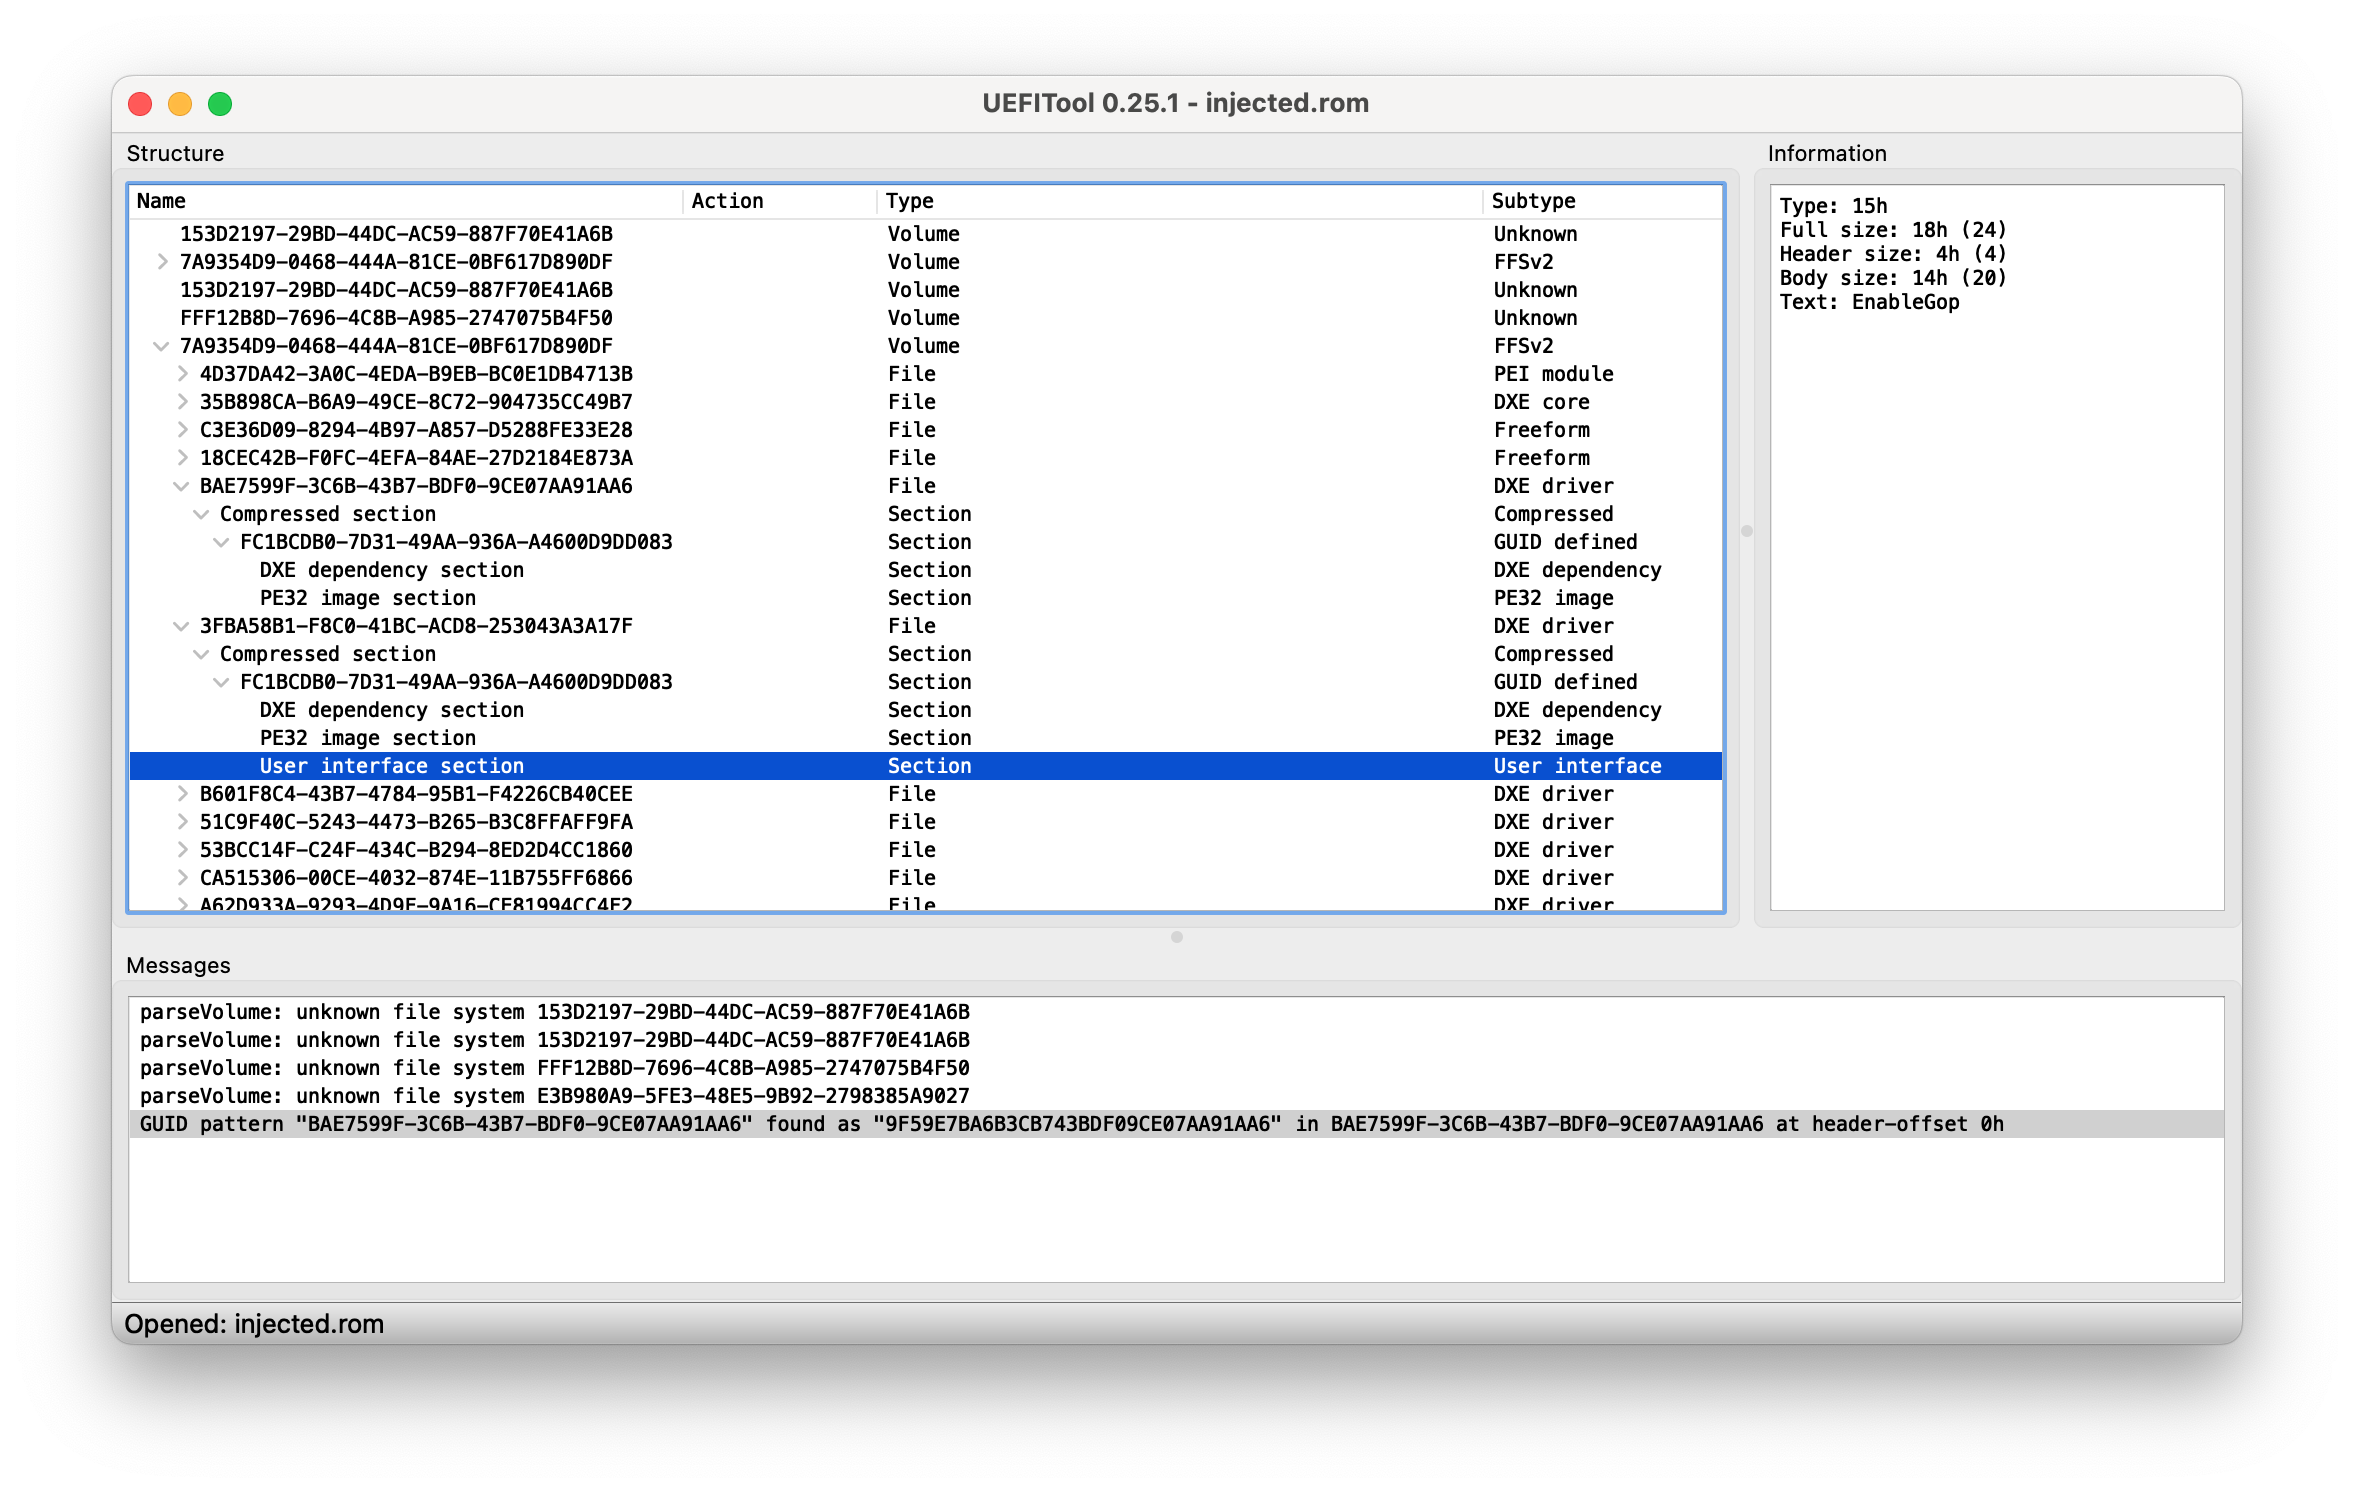
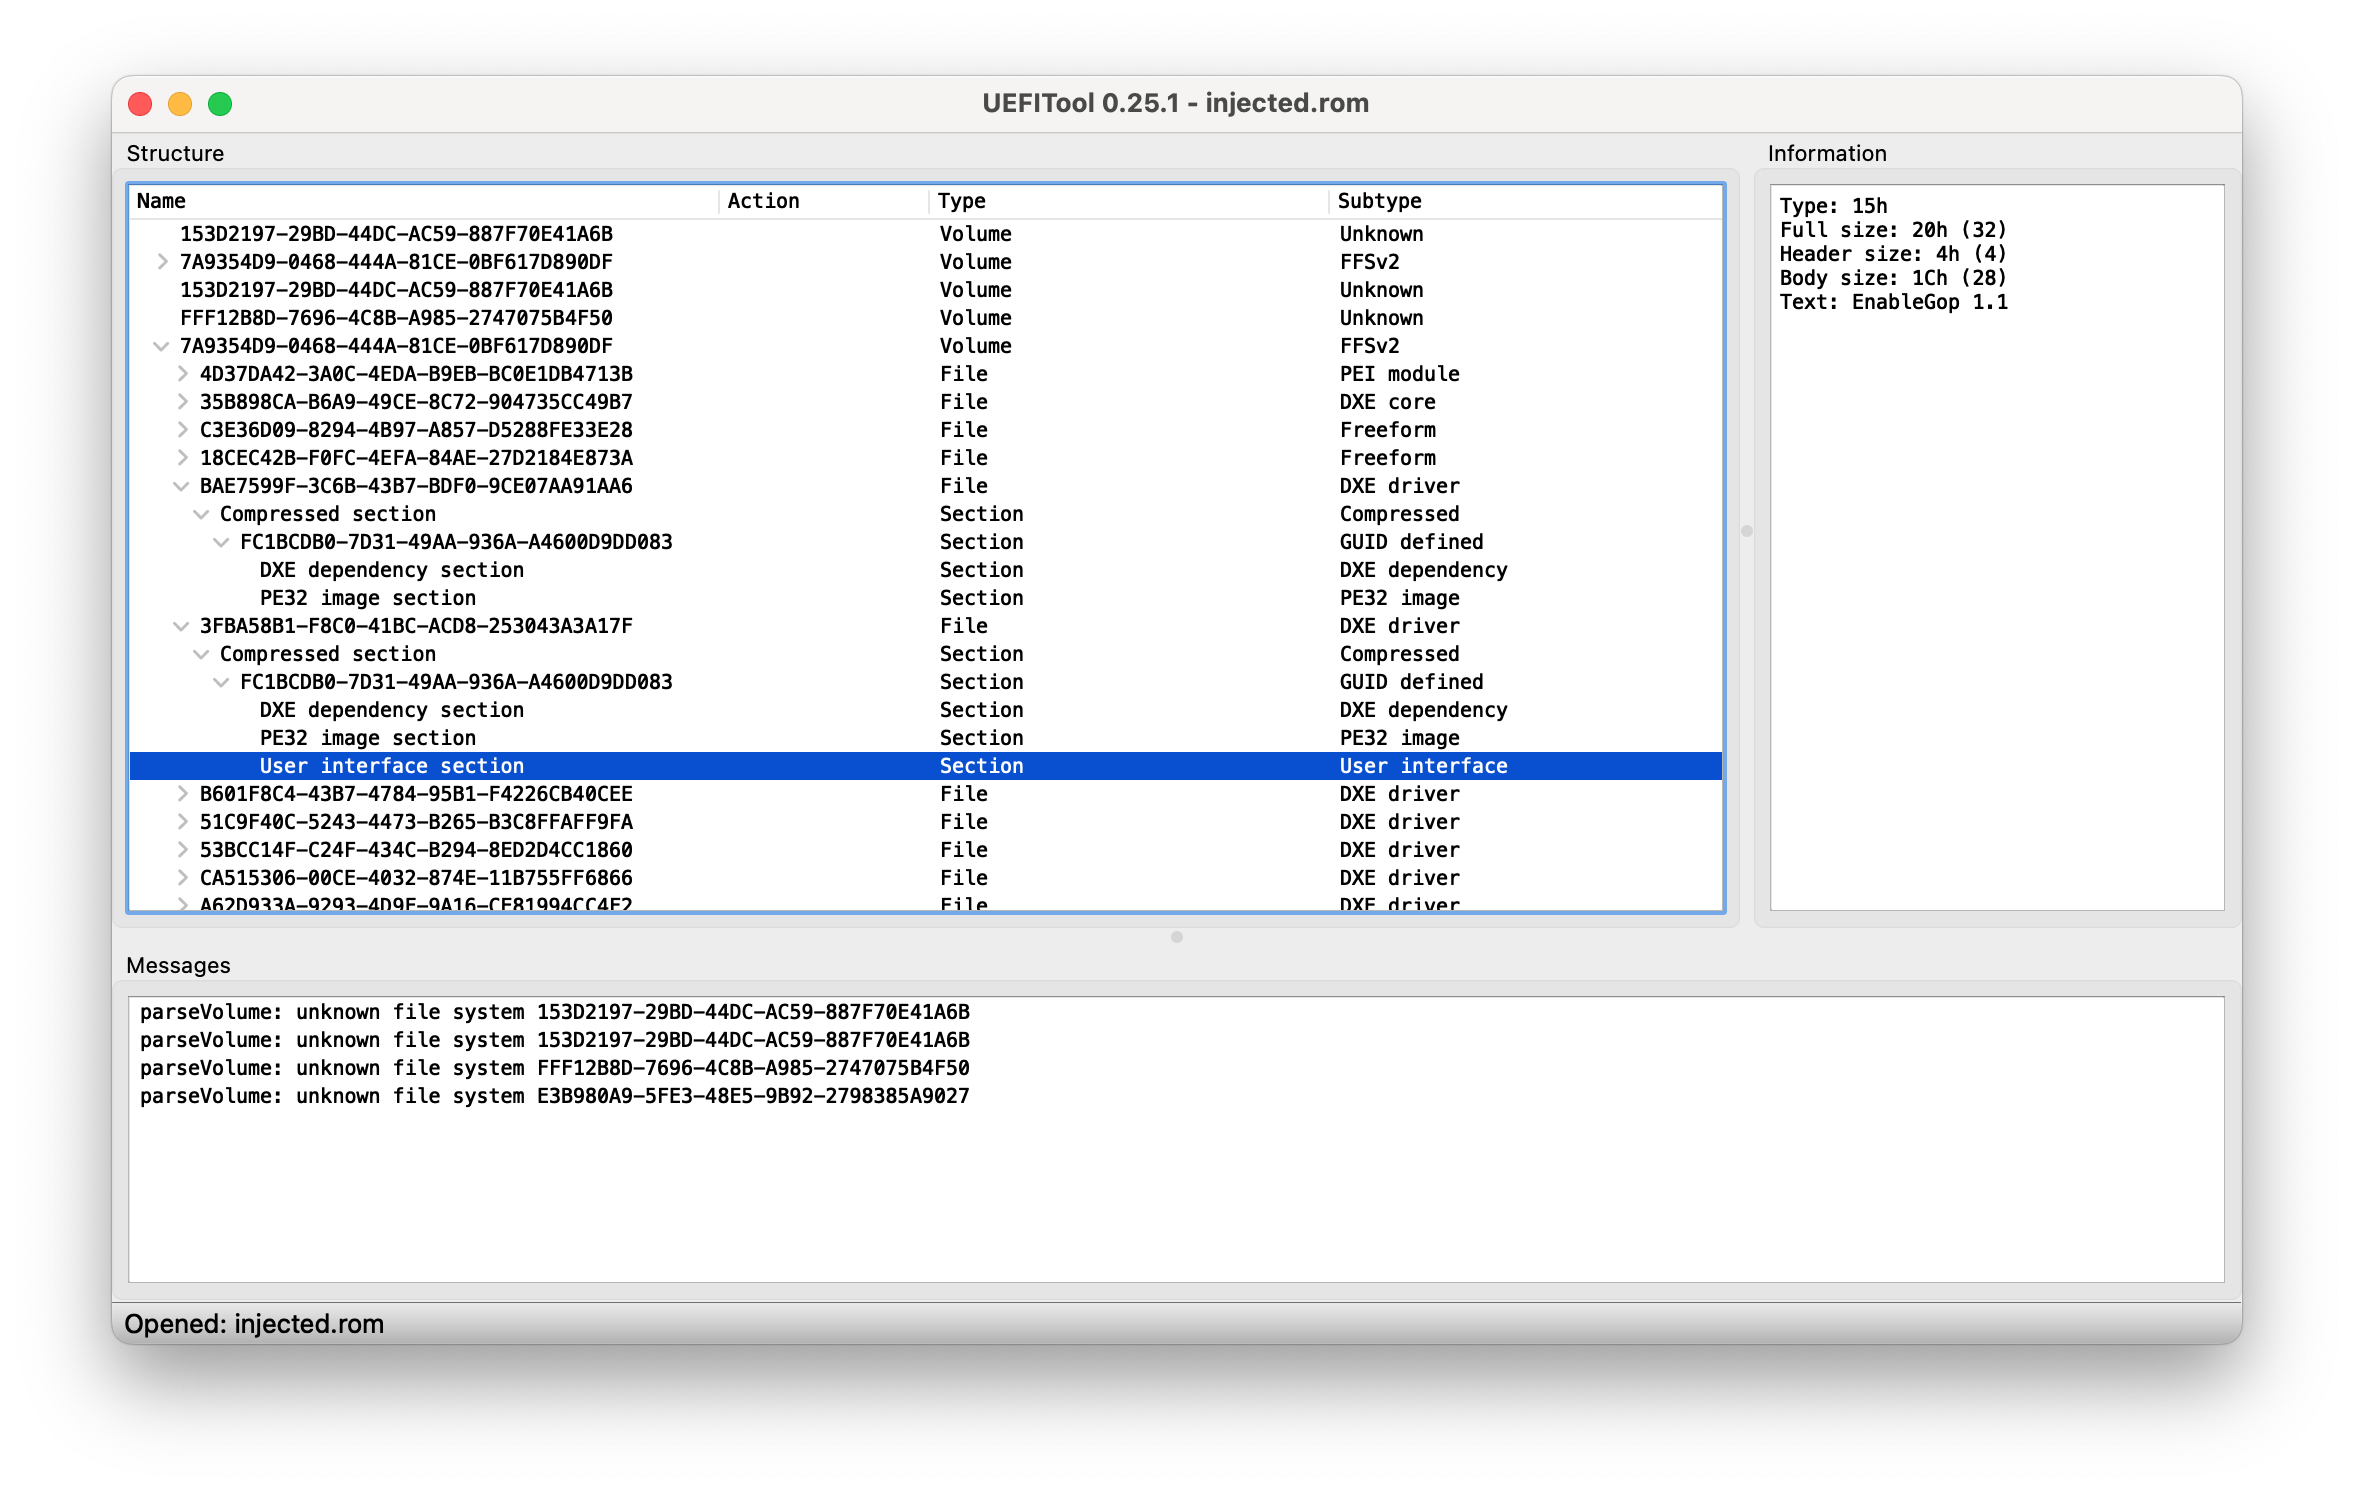
EnableGop: Update README.md and UEFITool screenshot

diff --git a/Staging/EnableGop/README.md b/Staging/EnableGop/README.md
@@ -1,11 +1,21 @@
 # Provides standalone GOP driver for EFI era Mac Pro and iMac
 
+## Releases
+
+EnableGop version (OpenCore version)
+### 1.1 (0.9.0)
+ - Fixed early verbose boot lines appearing over picker
+ - Added EnableGop version number to UI section
+
+### 1.0 (0.8.9)
+ - Initial public release
+
 ## Status
 **Current status: Beta release.**
 
 This driver has been tested and is working on several iMac models
 with several different GPUs, and on several MacPro4,1/5,1 machines with several different GPUs. However, in the worst
-case (and still quite possible) scenario, an incompatible or incorrectly installed driver
+case (and still possible) scenario, an incompatible or incorrectly installed driver
 in firmware may brick your hardware.
 
 *In all cases take a backup of the main firmware or VBIOS firmware which you are modifying, and confirm that
